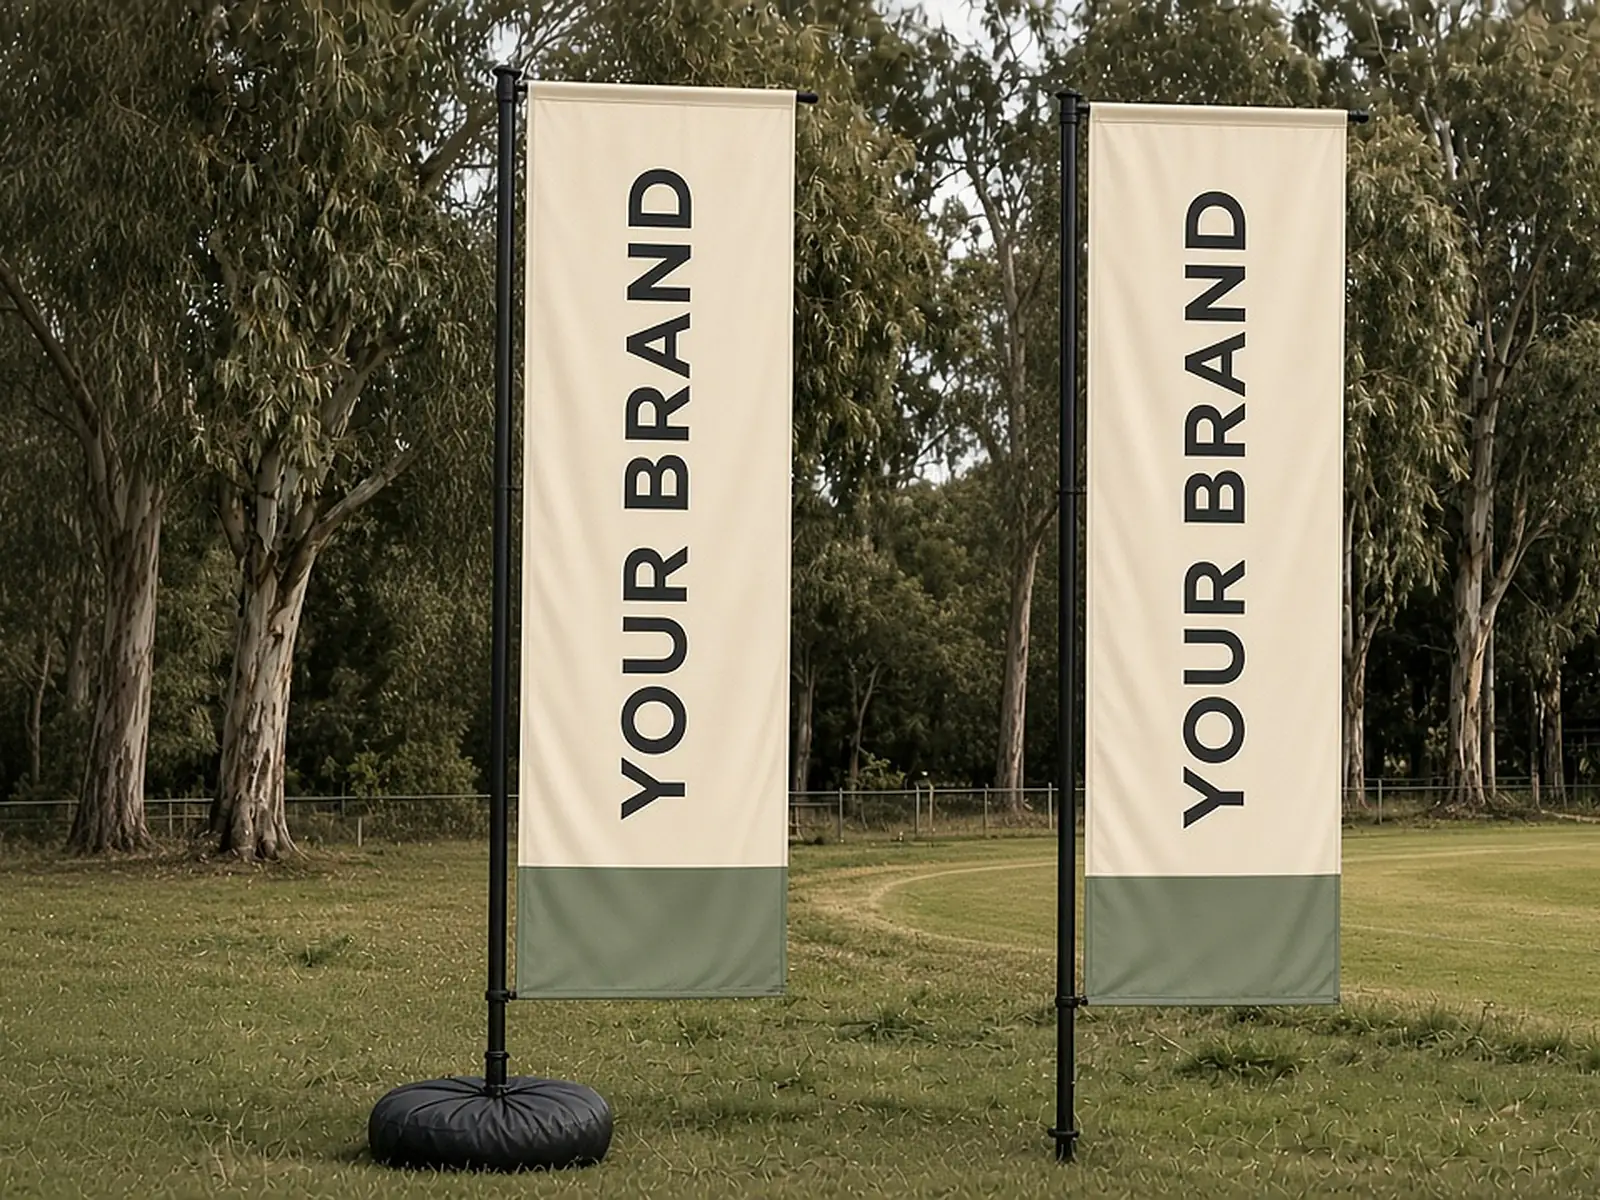
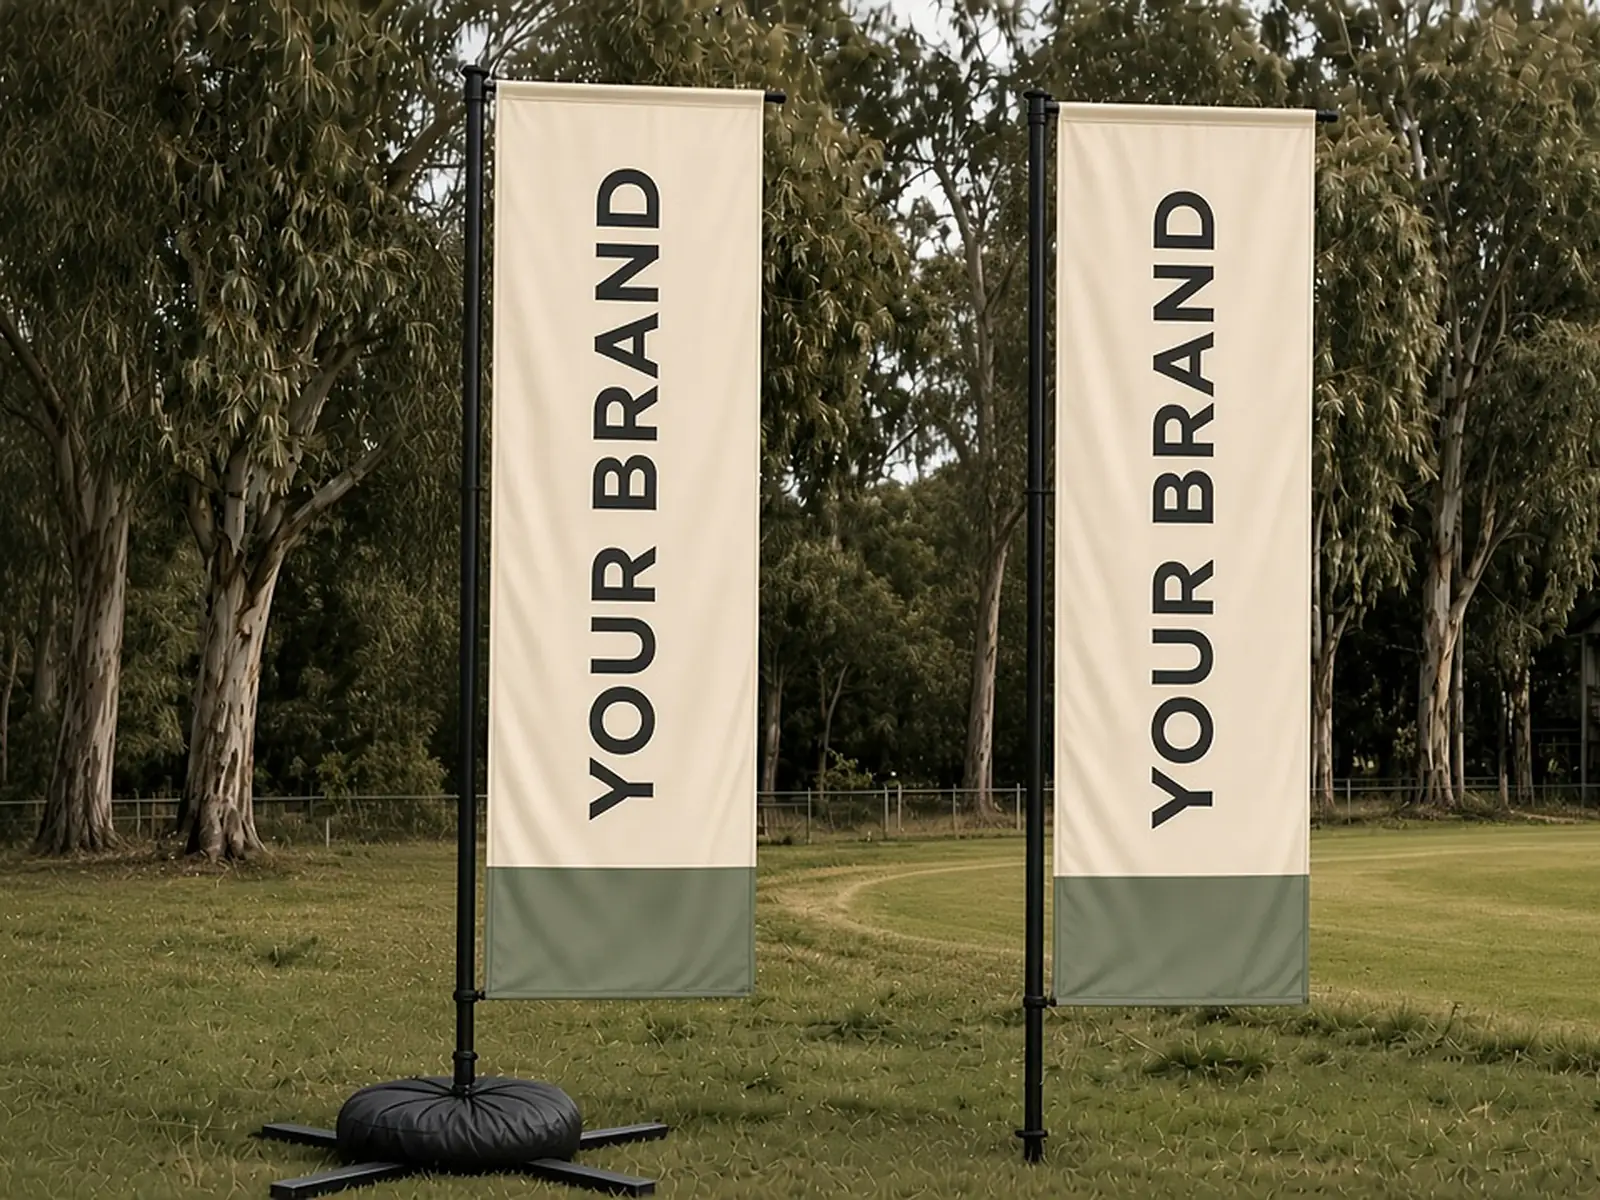
Rectangle flag cross base photo, Notes box wording for dates, neutral price intro for single-price products

diff --git a/src/data/mockups.ts b/src/data/mockups.ts
@@ -37,5 +37,5 @@ export const MOCKUPS = {
   v4StretchFabric: { slug: "v4-stretch-fabric", title: "Stretch fabric display", alt: "Cream and green stretch fabric display reading Your Brand, the fabric pulled tight over a curved-corner frame on two feet, in a bright office foyer" },
   v4TableTopBanner: { slug: "v4-table-top-banner", title: "Table-top banner", alt: "Long cream table-top banner reading Your Brand on a light metal frame, standing on a charcoal covered trestle table at an indoor expo", noSquare: true },
   v4AcmSign: { slug: "v4-acm-sign", title: "ACM sign", alt: "Flat cream and green aluminium composite sign reading Your Brand fixed to a pale rendered wall beside a shopfront window" },
-  v4RectangleFlags: { slug: "v4-rectangle-flags", title: "Rectangle flags", alt: "Two cream and green rectangle flags reading Your Brand on black poles in a park, one on a weighted base and one on a ground spike" },
+  v4RectangleFlags: { slug: "v4-rectangle-flags", title: "Rectangle flags", alt: "Two cream and green rectangle flags reading Your Brand on black poles in a park, one on a cross base with a water bag and one on a ground spike" },
 } satisfies Record<string, Mockup>;

diff --git a/src/data/eventGear.ts b/src/data/eventGear.ts
@@ -63,7 +63,7 @@ const BANDS_3 = [
 
 const COMMON_FAQS: GearFaq[] = [
   { q: "Will I see a proof before it's printed?", a: "Always. We send you a digital proof, and nothing is printed until you approve it in writing." },
-  { q: "How long does it take?", a: "We dispatch within 3 days of artwork approval, depending on order size. Tell us your needed-by date in the quote form and we'll let you know if it's tight." },
+  { q: "How long does it take?", a: "We dispatch within 3 days of artwork approval, depending on order size. Need it by a date? Put it in the Notes box on the quote form and we'll let you know if it's tight." },
   { q: "How much is delivery?", a: "Freight depends on the product's size and weight. We quote it to your postcode and include it on your quote. See our Delivery page for how it works." },
   { q: "How do I pay?", a: "Payment is due once your artwork is approved." },
 ];

diff --git a/src/components/GearPage.tsx b/src/components/GearPage.tsx
@@ -76,8 +76,9 @@ export default function GearPage({ product: p }: { product: GearProduct }) {
             Prices
           </h2>
           <p className="mt-2 max-w-3xl text-lg">
-            Price each, in Australian dollars, by how many of the same item you
-            order.
+            {p.bands.length > 1
+              ? "Price each, in Australian dollars, by how many of the same item you order."
+              : "Price each, in Australian dollars."}
           </p>
           <p className="mt-4 text-sm font-semibold text-charcoal/70 sm:hidden" aria-hidden="true">Swipe sideways to see all prices →</p>
           <div className="relative mt-8 overflow-x-auto rounded-xl border-2 border-charcoal/15 bg-white">

diff --git a/src/components/DeliveryPage.tsx b/src/components/DeliveryPage.tsx
@@ -32,7 +32,7 @@ export default function DeliveryPage() {
           <li>its weight</li>
         </ul>
         <p>The freight cost is in your quote, and you see it before you pay anything. Typical transit times vary by carrier and location, so we confirm them in your quote too.</p>
-        <p>Need it by a certain date? Put it in the <em>Date needed by</em> field on the quote form and we'll tell you if it's tight.</p>
+        <p>Need it by a certain date? Put it in the <em>Notes</em> box on the quote form and we'll tell you if it's tight.</p>
       </HelpSection>
 
 

diff --git a/src/components/Faq.tsx b/src/components/Faq.tsx
@@ -21,7 +21,7 @@ const allFaqs: { q: string; a: React.ReactNode }[] = [
   },
   {
     q: "How long does it take?",
-    a: <>Within 3 days of artwork approval, depending on order size. Tell us your needed-by date in the quote form and we'll let you know if it's tight.</>,
+    a: <>Within 3 days of artwork approval, depending on order size. Need it by a date? Put it in the Notes box on the quote form and we'll let you know if it's tight.</>,
   },
   {
     q: "Do you deliver?",

diff --git a/src/components/AFramesPage.tsx b/src/components/AFramesPage.tsx
@@ -105,8 +105,8 @@ const faqs: { q: string; a: ReactNode }[] = [
     q: "How long does it take?",
     a: (
       <>
-        {TURNAROUND} Tell us your needed-by date in the quote form and we'll let
-        you know if it's tight.
+        {TURNAROUND} Need it by a date? Put it in the Notes box on the quote form and
+        we'll let you know if it's tight.
       </>
     ),
   },

diff --git a/src/components/CorfluteSignsPage.tsx b/src/components/CorfluteSignsPage.tsx
@@ -126,8 +126,8 @@ const faqs: { q: string; a: ReactNode }[] = [
     q: "How long does it take?",
     a: (
       <>
-        {TURNAROUND} Tell us your needed-by date in the quote form and we'll let
-        you know if it's tight.
+        {TURNAROUND} Need it by a date? Put it in the Notes box on the quote form and
+        we'll let you know if it's tight.
       </>
     ),
   },

diff --git a/src/components/MediaWallsPage.tsx b/src/components/MediaWallsPage.tsx
@@ -58,8 +58,8 @@ const faqs: { q: string; a: ReactNode }[] = [
     q: "How long does it take?",
     a: (
       <>
-        {TURNAROUND} Tell us your needed-by date in the quote form and we'll let
-        you know if it's tight.
+        {TURNAROUND} Need it by a date? Put it in the Notes box on the quote form and
+        we'll let you know if it's tight.
       </>
     ),
   },

diff --git a/src/components/PullUpBannersPage.tsx b/src/components/PullUpBannersPage.tsx
@@ -73,8 +73,8 @@ const faqs: { q: string; a: ReactNode }[] = [
     q: "How long does it take?",
     a: (
       <>
-        {TURNAROUND} Tell us your needed-by date in the quote form and we'll let
-        you know if it's tight.
+        {TURNAROUND} Need it by a date? Put it in the Notes box on the quote form and
+        we'll let you know if it's tight.
       </>
     ),
   },

diff --git a/src/components/TableCoversPage.tsx b/src/components/TableCoversPage.tsx
@@ -97,8 +97,8 @@ const faqs: { q: string; a: ReactNode }[] = [
     q: "How long does it take?",
     a: (
       <>
-        {TURNAROUND} Tell us your needed-by date in the quote form and we'll let
-        you know if it's tight.
+        {TURNAROUND} Need it by a date? Put it in the Notes box on the quote form and
+        we'll let you know if it's tight.
       </>
     ),
   },
